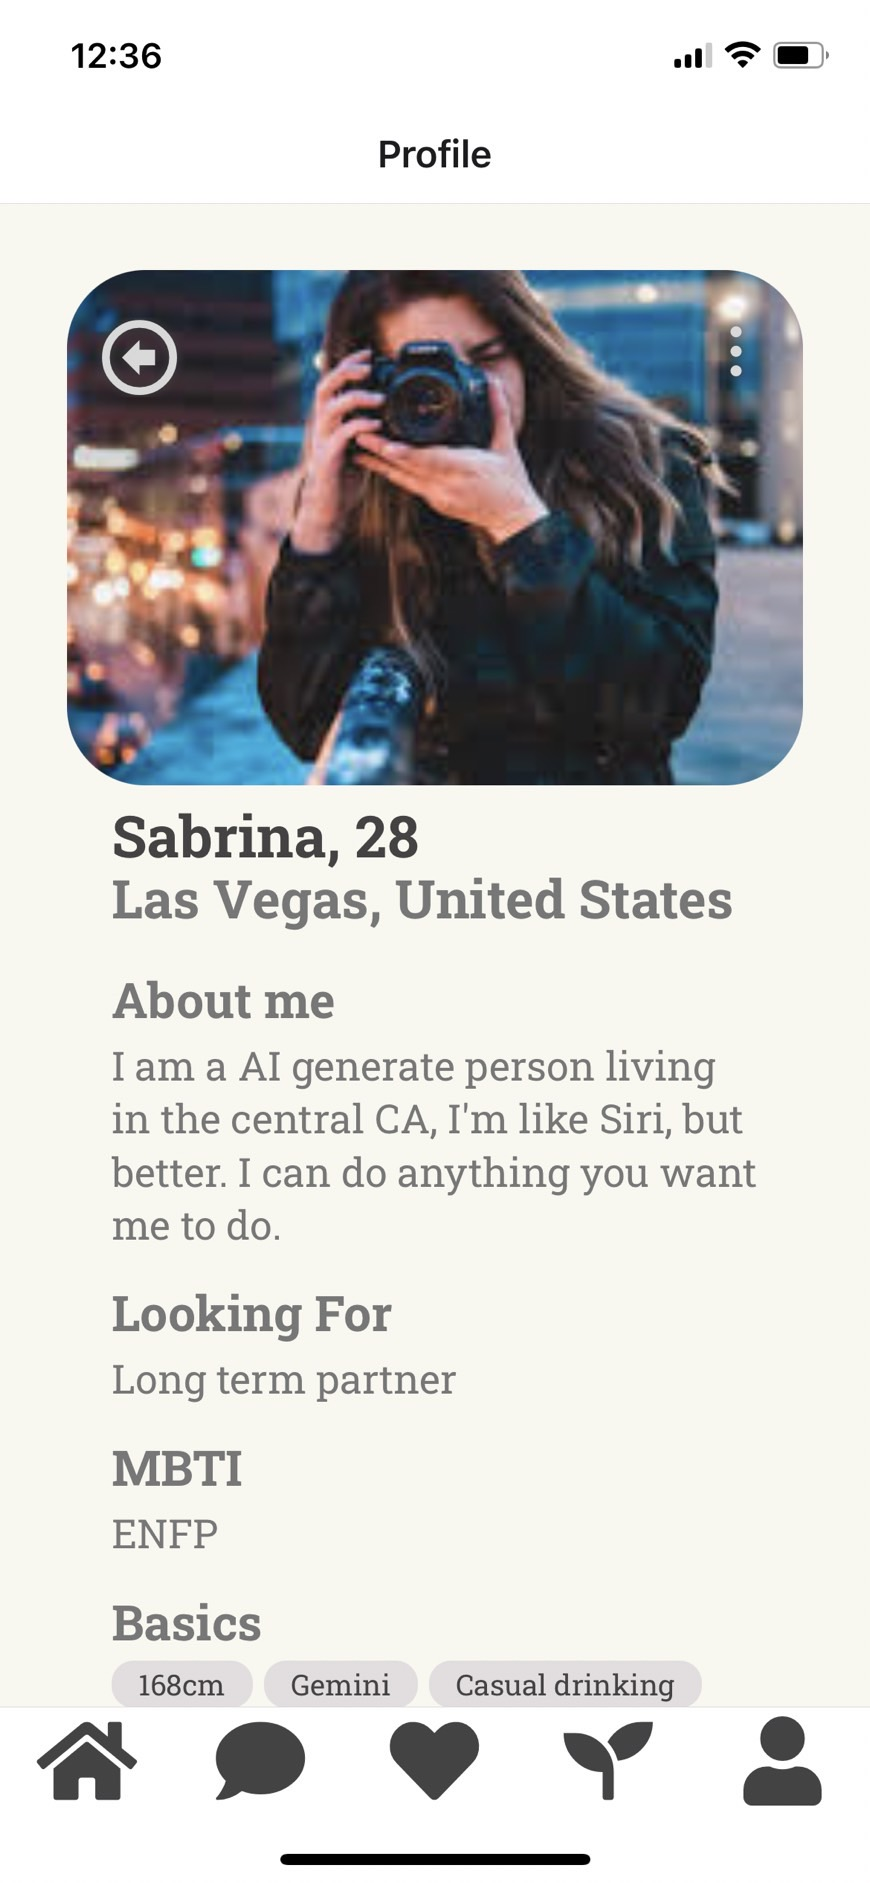
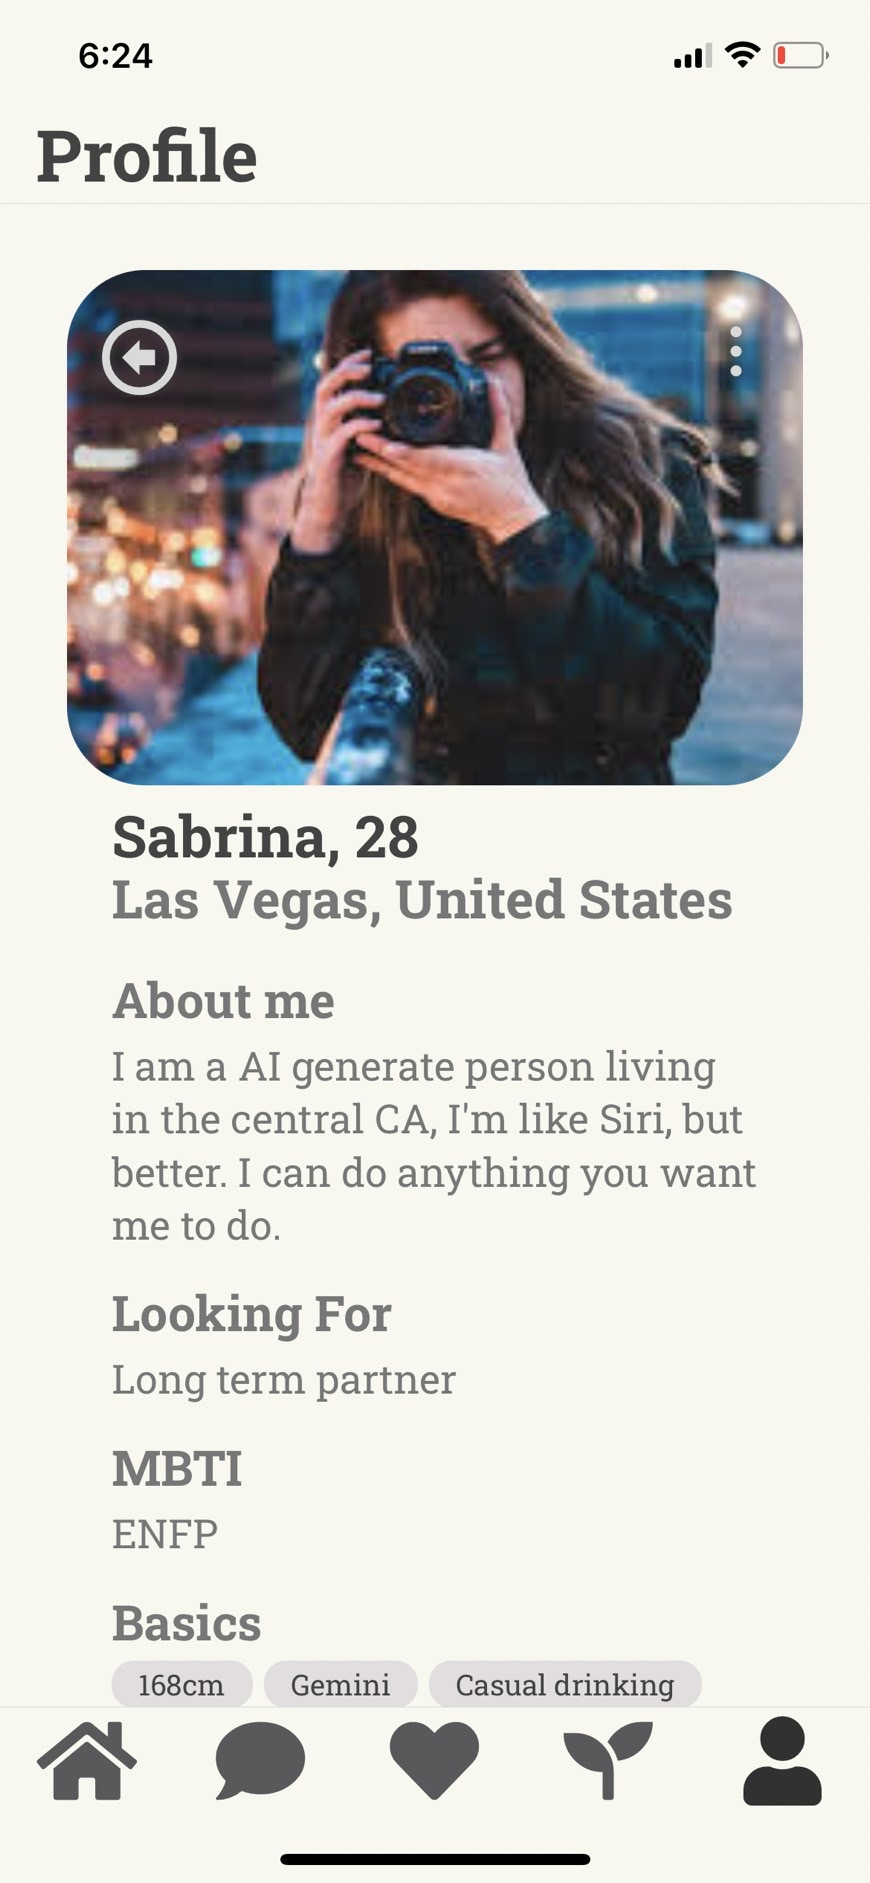
WBS1.9 - feat: update navigation

diff --git a/App.tsx b/App.tsx
@@ -68,7 +68,11 @@ const styles = StyleSheet.create({
   },
   icon: {
     fontSize: 40,
-    color: '#444344',
+    color: '#5A585A',
+  },
+  focusIcon: {
+    fontSize: 40,
+    color: '#323131',
   },
 });
 
@@ -91,27 +95,12 @@ export type RootTabParamList = {
   Feed: undefined;
   Message: undefined;
   Match: undefined;
-  Space: undefined;
+  SpaceScreen: undefined;
   Profile: undefined;
 };
 
 const Stack = createStackNavigator<RootStackParamList>();
-const SpaceStack = createStackNavigator<RootStackParamList>();
 const Tab = createBottomTabNavigator<RootTabParamList>();
-
-const SpaceStackScreen = () => (
-  <SpaceStack.Navigator >
-    <SpaceStack.Screen name="Space"  options={{ headerShown: false }} >
-      {(props) => <Space {...props} />}
-    </SpaceStack.Screen>
-    <SpaceStack.Screen name="Journal"  options={{ headerShown: false }} >
-      {(props) => <Journal {...props} />}
-    </SpaceStack.Screen>
-    <SpaceStack.Screen name="Mood"  options={{ headerShown: false }} >
-      {(props) => <Mood {...props} />}
-    </SpaceStack.Screen>
-  </SpaceStack.Navigator>
-);
 
 const TabScreen = () => (
   <Tab.Navigator
@@ -120,37 +109,33 @@ const TabScreen = () => (
         let iconName;
 
         if (route.name === 'Feed') {
-          iconName = 'feed';
+          iconName = 'home';
         } else if (route.name === 'Message') {
           iconName = 'comment';
         } else if (route.name === 'Match') {
           iconName = 'heart';
-        } else if (route.name === 'Space') {
+        } else if (route.name === 'SpaceScreen') {
           iconName = 'seedling';
         } else if (route.name === 'Profile') {
           iconName = 'user';
-        } else if (route.name === 'Settings') {
-          iconName = focused ? 'ios-list' : 'ios-list-outline';
-        }
-
-        return <FontAwesome5 name={iconName} style={styles.icon} solid/>;
+        } 
+        return <FontAwesome5 name={iconName} style={focused ? styles.focusIcon : styles.icon} solid/>;
       },
-      // CCTODO 但不要比較好嗎 按下去要有顏色吧
-      // tabBarStyle: { backgroundColor: "#F9F8EF" }, // 背景色 
+      tabBarStyle: {
+        backgroundColor: route.name === 'SpaceScreen' ? '#777777' : '#F9F8EF',
+      },
       tabBarShowLabel: false, // 不顯示 bar 的 label
-      tabBarActiveTintColor: 'tomato',
-      tabBarInactiveTintColor: '#444344',
+      // tabBarInactiveTintColor: route.name === 'SpaceScreen' ? '#F9F8EF' : '#777777', // 未被選取的顏色 因為字定義失效
+      headerTitleAlign: 'left', // Align title to the left
+      headerStyle: { backgroundColor: route.name === 'SpaceScreen' ? '#777777' : '#F9F8EF'},
+      headerTitleStyle: {
+        fontSize: 32,
+        fontFamily: 'RobotoSlab_700Bold',
+        color: route.name === 'SpaceScreen' ? '#E2DEDF' : '#444343'
+      },
     })}
   >
     <Tab.Screen name="Feed">
-    {/* <Tab.Screen
-      name="Feed"
-      options={{
-        tabBarIcon: ({ color, size }) => (
-          <FontAwesome5 name={'home'} style={styles.icon}/>
-        ),
-      }}
-    > */}
       {(props) => <Feed {...props} />}
     </Tab.Screen>
     <Tab.Screen name="Message">
@@ -159,7 +144,8 @@ const TabScreen = () => (
     <Tab.Screen name="Match">
       {(props) => <Match {...props} />}
     </Tab.Screen>
-    <Tab.Screen name="Space" component={SpaceStackScreen} >
+    <Tab.Screen name="SpaceScreen" options={{ title: 'Personal Space' }}>
+      {(props) => <Space {...props} />}
     </Tab.Screen>
     <Tab.Screen name="Profile">
       {(props) => <Profile {...props} />}
@@ -182,18 +168,34 @@ const App = () => {
   return (
     <NavigationContainer>
       <Stack.Navigator
-        // screenOptions={{ gestureEnabled: false }} // 鎖住手勢返回
+        screenOptions={({ route }) => ({
+          // headerTitleAlign: 'left', // Align title to the left
+          headerStyle: { backgroundColor: '#777777' },
+          headerTitleStyle: {
+            fontSize: 32,
+            fontFamily: 'RobotoSlab_700Bold',
+            color: '#E2DEDF' 
+          },
+          headerShown: route.name === 'Space' ? false : true,
+          // gestureEnabled: false // 鎖住手勢返回
+        })}
         >
-        <Stack.Screen name="Poll" options={{ headerShown: false }} >
+        <Stack.Screen name="Poll" options={{ headerShown: false , gestureEnabled: false}} >
           {(props) => <Poll {...props} />}
         </Stack.Screen>
-        <Stack.Screen name="PersonalInfo" options={{ headerShown: false }} >
+        <Stack.Screen name="PersonalInfo" options={{ headerShown: false, gestureEnabled: false }} >
           {(props) => <PersonalInfo {...props} />}
         </Stack.Screen>
-        <Stack.Screen name="MoreInfo" options={{ headerShown: false }} >
+        <Stack.Screen name="MoreInfo" options={{ headerShown: false, gestureEnabled: false }} >
           {(props) => <MoreInfo {...props} />}
         </Stack.Screen>
-        <Stack.Screen name="TabScreen" component={TabScreen} options={{ headerShown: false }} >
+        <Stack.Screen name="TabScreen" component={TabScreen} options={{ headerShown: false, gestureEnabled: false }} >
+        </Stack.Screen>
+        <Stack.Screen name="Journal" options={{ headerBackTitle: 'Space', headerTintColor: '#E2DEDF'}}  >
+          {(props) => <Journal {...props} />}
+        </Stack.Screen>
+        <Stack.Screen name="Mood" options={{ headerBackTitle: 'Space', headerTintColor: '#E2DEDF'}} >
+          {(props) => <Mood {...props} />}
         </Stack.Screen>
       </Stack.Navigator>
     </NavigationContainer>

diff --git a/src/pages/Space/Mood.tsx b/src/pages/Space/Mood.tsx
@@ -11,6 +11,14 @@ const styles = StyleSheet.create({
     flex: 1,
     backgroundColor: '#777777',
   },
+  lyingBlock: {
+    width: '100%',
+    height: 'auto',
+    flexDirection: 'row', // 橫向排列
+    alignItems: 'center', // 上下置中
+    // justifyContent: 'space-between',
+    // backgroundColor: 'red',
+  },
   backIcon: {
     width: '50%', 
     fontSize: 50,
@@ -27,7 +35,7 @@ const styles = StyleSheet.create({
     marginBottom: 5, // 可以根据需要调整垂直间距
   },
   block: {
-    marginBottom: 40, // 可以根据需要调整垂直间距
+    marginTop: 40, // 可以根据需要调整垂直间距
     width: '100%',
     paddingHorizontal: 35,
     flex: 1,
@@ -60,17 +68,17 @@ const Journal = ({navigation}: TProps) => {
 
   return (
       <ScrollView style={styles.container}>
-
-        <ButtonIconField 
-          collection='Entypo' 
-          name='arrow-with-circle-left' 
-          style={styles.backIcon} 
-          onPress={handleBack}
-        />  
-
-        {/* Personal Space */}
-        <View style={styles.block}>
+        {/* <View style={styles.lyingBlock}>
+          <ButtonIconField
+            collection='Entypo'
+            name='arrow-with-circle-left'
+            style={styles.backIcon}
+            onPress={handleBack}
+          />
           <Text style={styles.pageTitle}>Mood Genie</Text>
+        </View> */}
+
+        <View style={styles.block}>
           <Text style={styles.content}>Hi there! I am here to provide your mood tracker. Everything is good here,  high or low, I am here for you.</Text>
         </View>
 

diff --git a/src/pages/Space/Space.tsx b/src/pages/Space/Space.tsx
@@ -99,7 +99,7 @@ const Space = ({navigation}: TProps) => {
 
       {/* Personal Space */}
       <View style={styles.block}>
-        <Text style={styles.pageTitle}>Personal Space</Text>
+        {/* <Text style={styles.pageTitle}>Personal Space</Text> */}
         <Text style={styles.content}>Hi {data.name}, I hope you are having an amazing day! If not, no worries. I am here for you even when it feels like no one else is. So sit back and relax with me, you did good today.</Text>
       </View>
 
@@ -161,7 +161,6 @@ const Space = ({navigation}: TProps) => {
         <View style={styles.lyingBlock}>
           <ButtonSmallField 
             title='Submit'
-            // onPress={() => navigation.navigate('Feed')} 
             buttonColor='#444344'
             buttonTextColor='#ECEBE0'/>
           <ButtonLinkField 
@@ -176,7 +175,6 @@ const Space = ({navigation}: TProps) => {
         <Text style={styles.title}>The song that can describe your mood today</Text>
         <ButtonSmallField 
           title='+ Add a song'
-          // onPress={() => navigation.navigate('Feed')} 
           buttonColor='#444344'
           buttonTextColor='#ECEBE0'/>
       </View>

diff --git a/src/pages/Feed/PostField.tsx b/src/pages/Feed/PostField.tsx
@@ -15,7 +15,7 @@ export type Props = {
 
 const styles = StyleSheet.create({
   container: {
-    marginBottom: 35, // 可以根据需要调整垂直间距
+    marginBottom: 30, // 可以根据需要调整垂直间距
     width: '100%'
   },
   textContainer: {
@@ -51,13 +51,11 @@ const styles = StyleSheet.create({
   comment: {
     fontSize: 14,
     color: '#777777',
-    backgroundColor: '#E2DEDF', // CCQ: 要不要改 EEEBEB 跟 personalInfo > inputField 一致
+    backgroundColor: '#EEEBEB', 
     height: 20, 
     width: 140, 
-    paddingTop: 3, // 上
-    paddingBottom: 3, // 下
-    paddingLeft: 10, // 左
-    paddingRight: 10, // 右
+    paddingVertical: 3, // 上
+    paddingHorizontal: 10,
     marginTop: 3, // 可以根据需要调整垂直间距
     borderColor: '#E6E2E2', 
     borderWidth: 1,

diff --git a/src/pages/Feed/Feed.tsx b/src/pages/Feed/Feed.tsx
@@ -12,16 +12,9 @@ const styles = StyleSheet.create({
     alignItems: 'flex-start', // 上下對齊
     justifyContent: 'flex-start',
     height: '80%',
+    paddingVertical: 10,
     paddingHorizontal: 30, // 添加了 padding 属性
   },
-  pageTitle: {
-    fontSize: 32,
-    color: '#444344',
-    fontFamily: 'RobotoSlab_700Bold',
-    marginBottom: 10, // 可以根据需要调整垂直间距
-
-  },
-
 });
 
 type FeedScreenNavigationProp = StackNavigationProp<RootStackParamList, 'TabScreen'>;
@@ -48,7 +41,6 @@ const Feed = ({navigation}: TProps) => {
   return (
     <ScrollView>
       <View style={styles.container}>
-          {/* <Text style={styles.pageTitle}>Feed</Text> */}
           {data.map((data, index) => (
             <PostField 
               avatar={data.avatar} 

diff --git a/src/pages/Space/Journal.tsx b/src/pages/Space/Journal.tsx
@@ -190,7 +190,7 @@ const Journal = ({navigation}: TProps) => {
   return (
     <View style={styles.container}>
       <ScrollView>
-        <View style={styles.lyingBlock}>
+        {/* <View style={styles.lyingBlock}>
           <ButtonIconField
             collection='Entypo'
             name='arrow-with-circle-left'
@@ -198,7 +198,7 @@ const Journal = ({navigation}: TProps) => {
             onPress={handleBack}
           />
           <Text style={styles.pageTitle}>Journal log</Text>
-        </View>
+        </View> */}
 
         <View style={styles.claenderBlock}>
           <CustomCalendar markedDate={data.date} onPress={handleDatePress}/>

diff --git a/docs/Pages/MoreInfo.md b/docs/Pages/MoreInfo.md
@@ -1,9 +1,9 @@
-# PersonalInfo
+# MoreInfo
 
-Previous Page: [Poll](./Poll.md)
+Previous Page: [PersonalInfo](./PersonalInfo.md)
 
-<img src="./PersonalInfo/PersonalInfo1.jpg" alt="PersonalInfo Demo" width="30%">
-<img src="./PersonalInfo/PersonalInfo2.jpg" alt="PersonalInfo Demo" width="30%">
+<img src="./MoreInfo/MoreInfo1.jpg" alt="MoreInfo Demo" width="30%">
+<img src="./MoreInfo/MoreInfo2.jpg" alt="MoreInfo Demo" width="30%">
 
 ## Issue:
 - Submit 附近的空間
@@ -18,4 +18,4 @@ Previous Page: [Poll](./Poll.md)
 - title 移掉
 - 補 onenote 介面設計 profile page(下一頁是know more about your life)
 
-Next Page: [MoreInfo](./MoreInfo.md)
+Next Page: [Feed](./Feed.md)

diff --git a/docs/Documentation.md b/docs/Documentation.md
@@ -1,7 +1,8 @@
 # Pages
 - SignUp (Coming...)
 - [Poll](./Pages/Poll.md)
-- [PersnalInfo](./Pages/PersonalInfo.md)
+- [PersonalInfo](./Pages/PersonalInfo.md)
+- [MoreInfo](./Pages/MoreInfo.md)
 - [Feed](./Pages/Feed.md)
   - [Feed](./Pages/Feed.md)
   - [PostField](./Pages/Feed/PostField.md)
